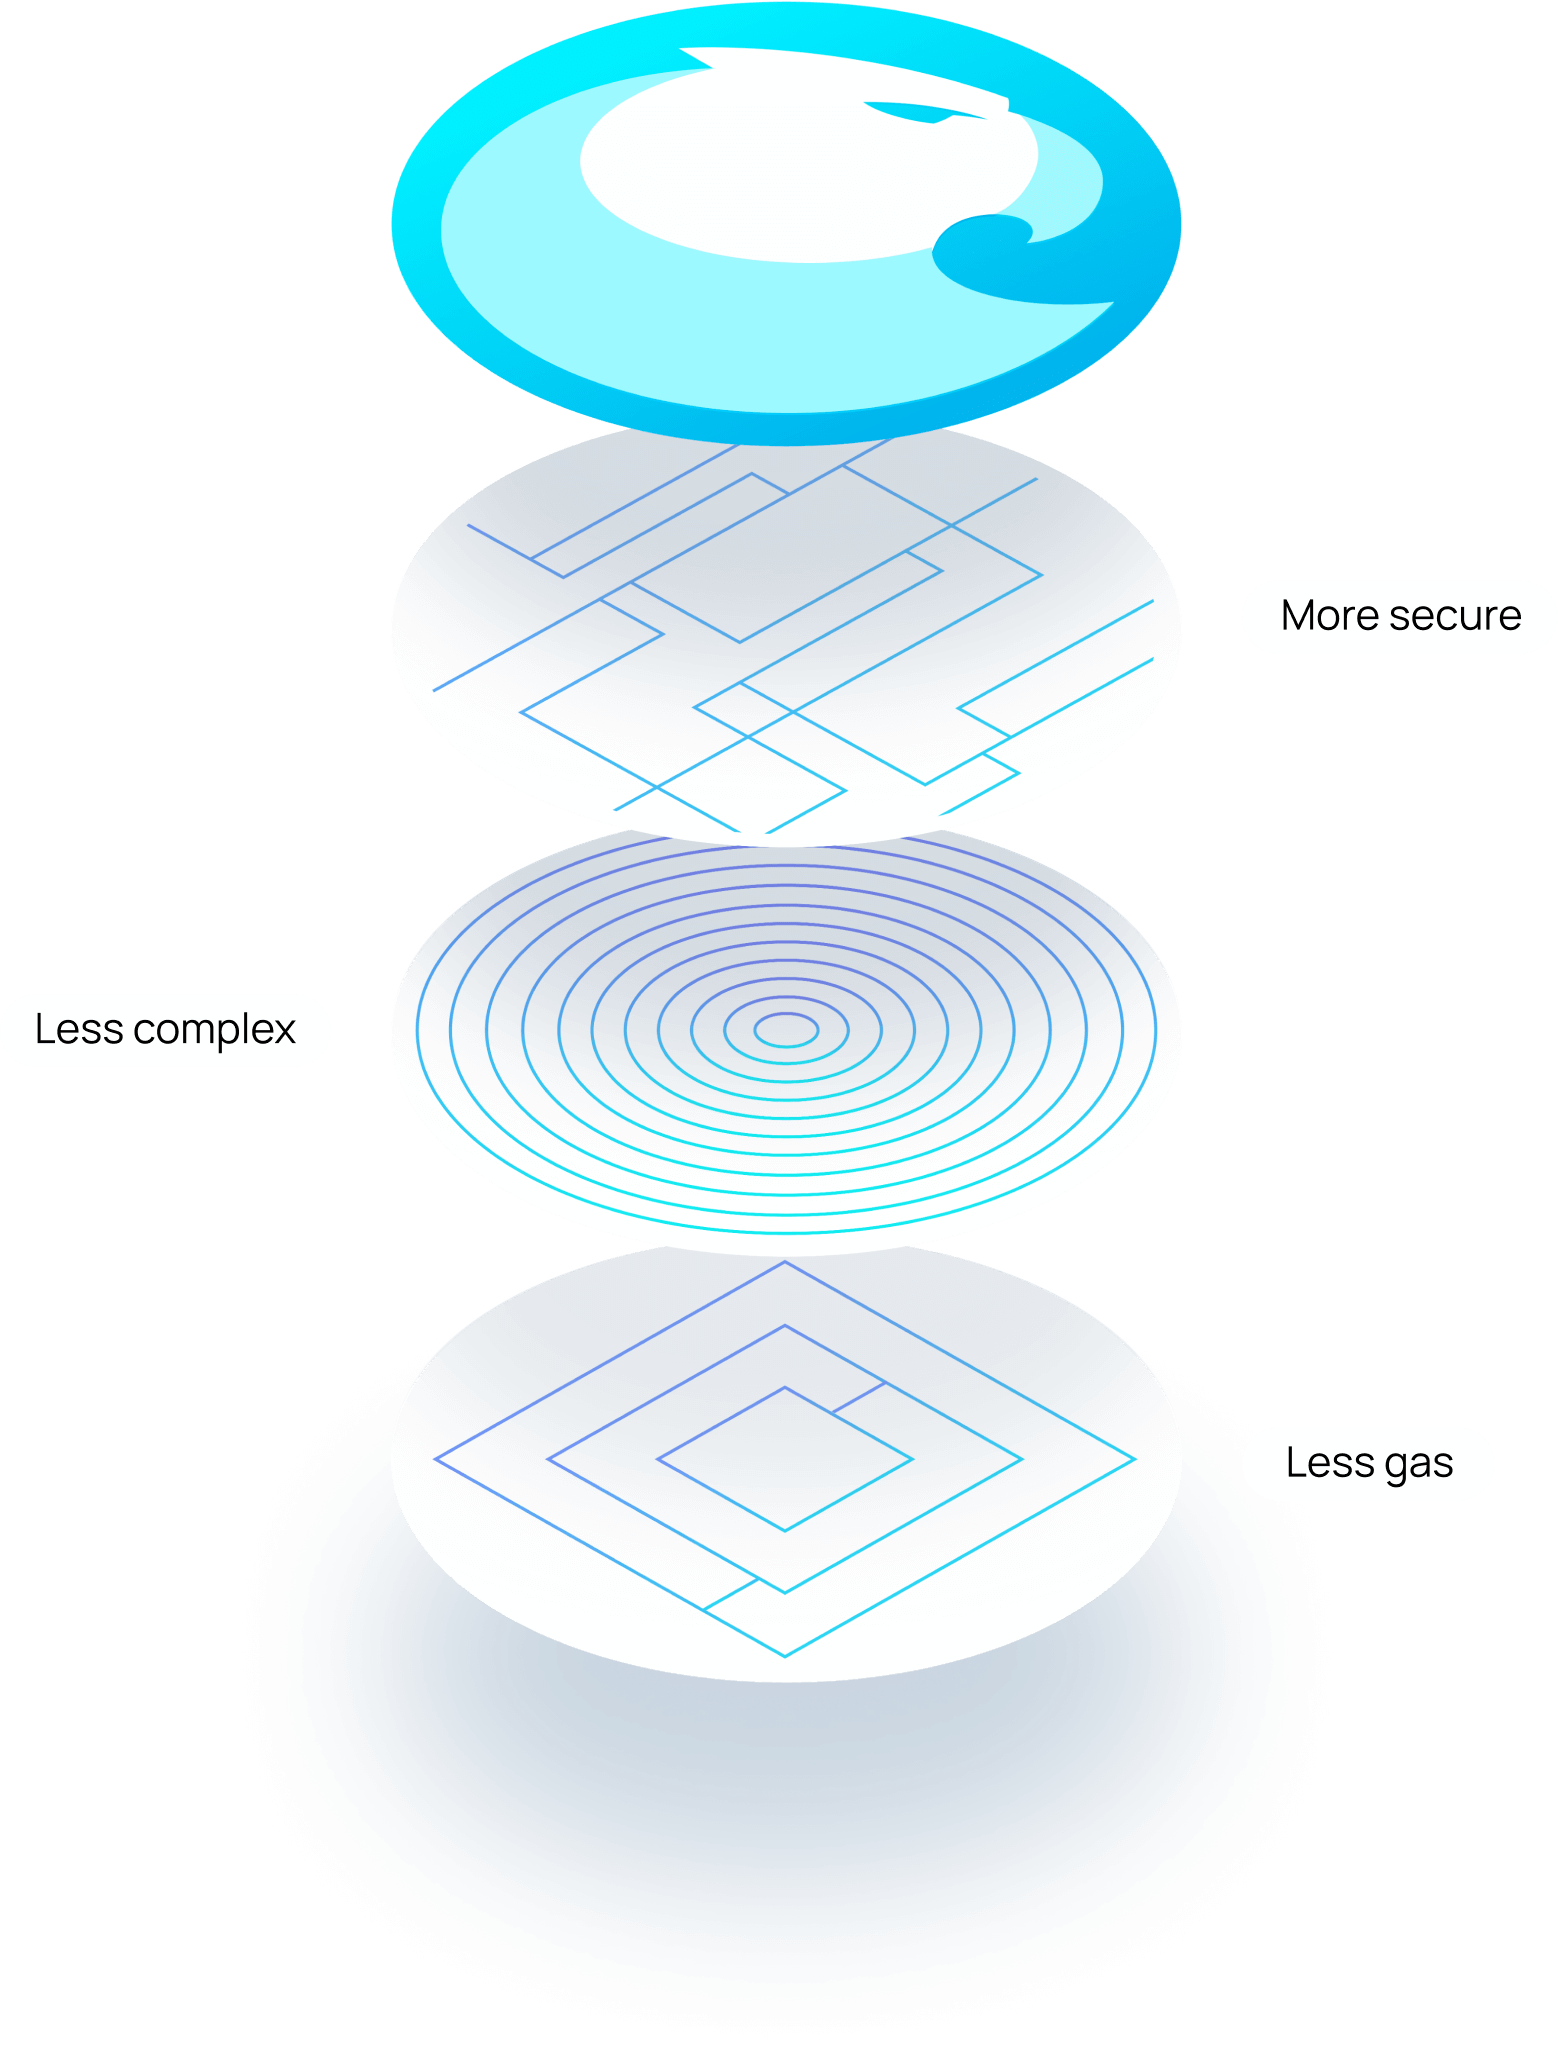
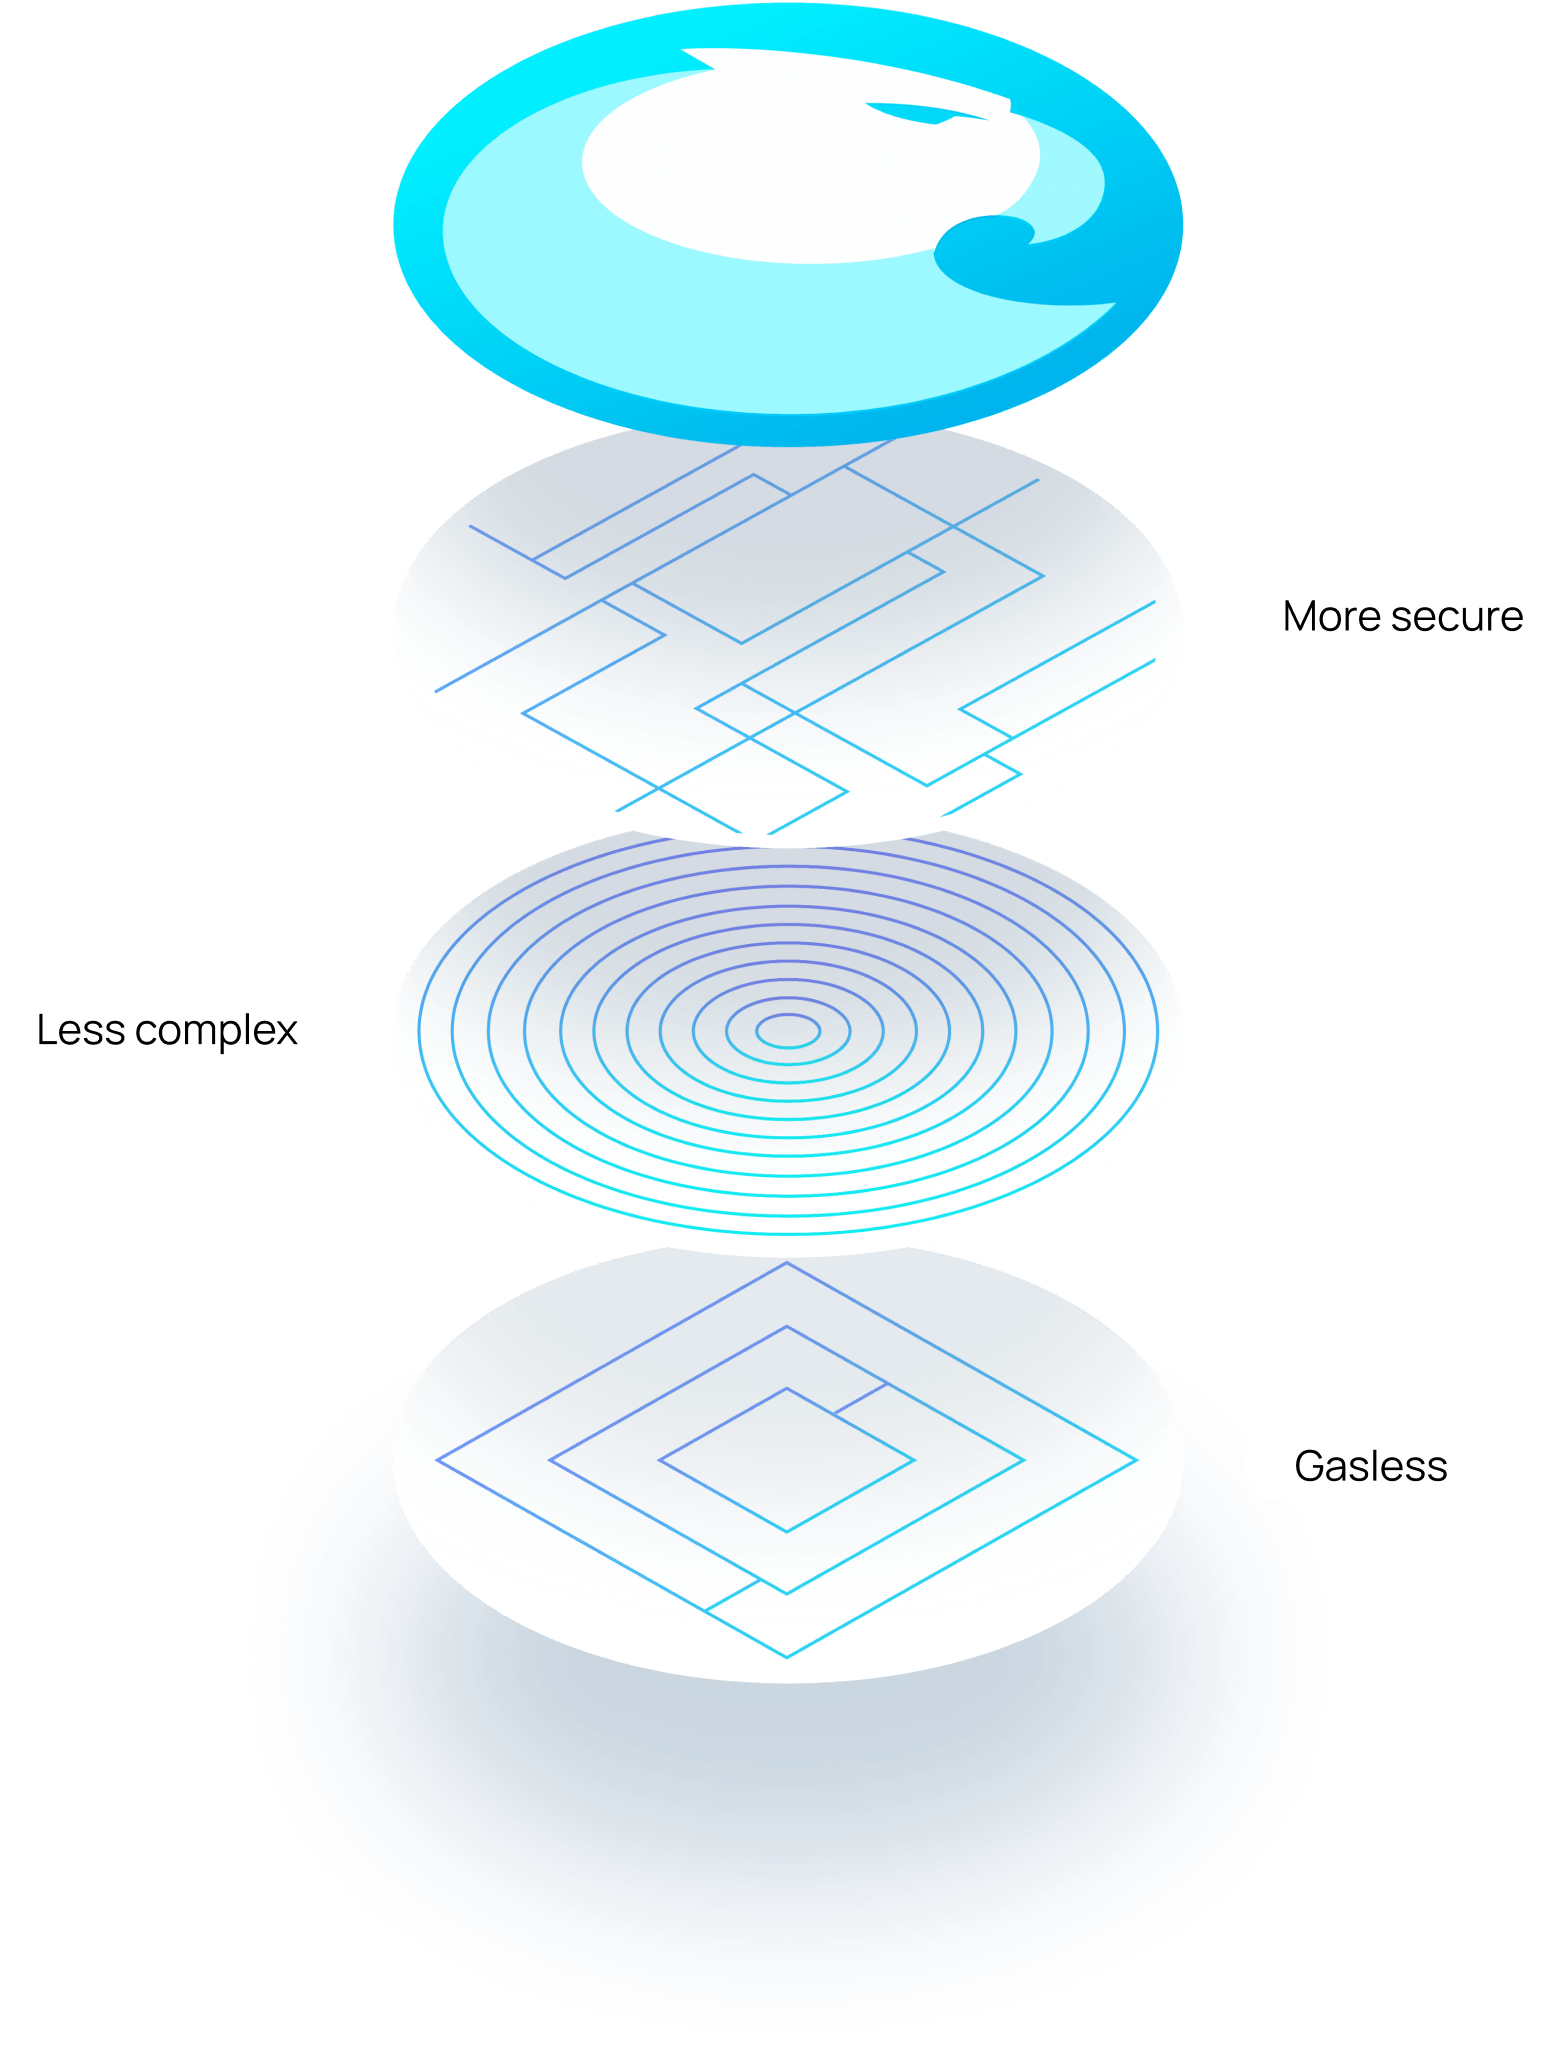
Copy update: v2 features (#78)

diff --git a/src/components/GetStarted/Features.tsx b/src/components/GetStarted/Features.tsx
@@ -5,8 +5,7 @@ import featuresPng from '../../assets/antv2-features.png'
 import { fontWeight } from '../../style/font'
 import LayoutLimiter from '../Layout/LayoutLimiter'
 
-// TODO: Ensure this is accurate
-const BLOG_POST_URL = 'https://aragon.org/blog/2'
+const BLOG_POST_URL = 'https://aragon.org/blog/antv2'
 
 function Features({
   ...props
@@ -47,9 +46,9 @@ function Features({
               margin-bottom: ${3 * GU}px;
             `}
           >
-            Switching to a new, simpler token will make ANT transactions 3x
-            cheaper — lowering the barrier to entry and making it a better token
-            to use.
+            It’s time for ANT to get an upgrade! Switching to a newer, simpler
+            token contract will make transactions 3x cheaper and support
+            gasless&nbsp;transfers.
           </p>
           <Link
             href={BLOG_POST_URL}
